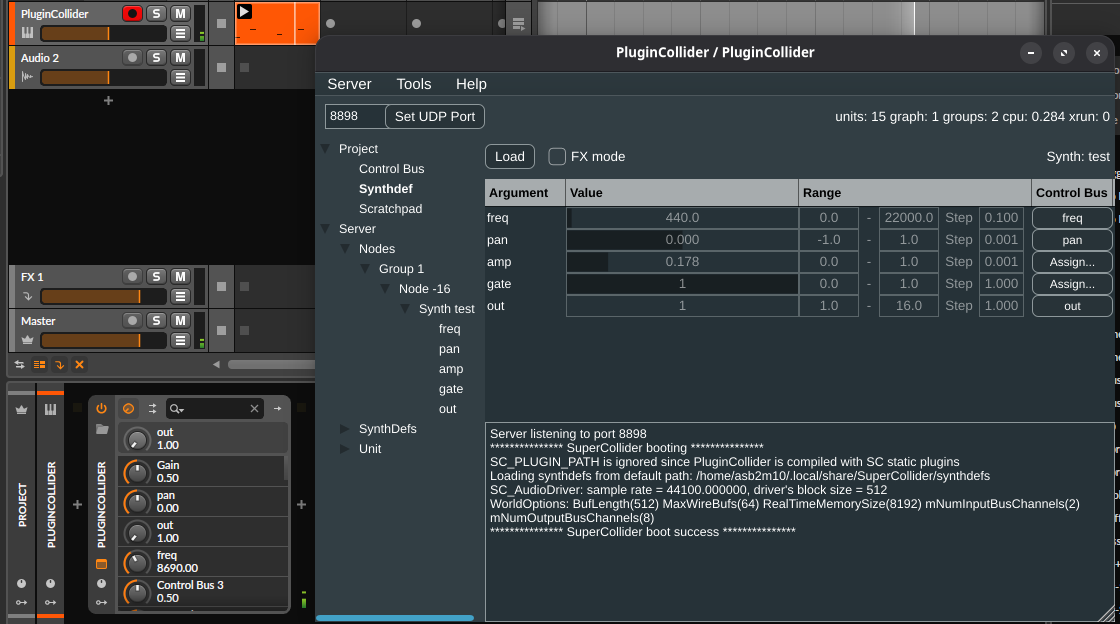
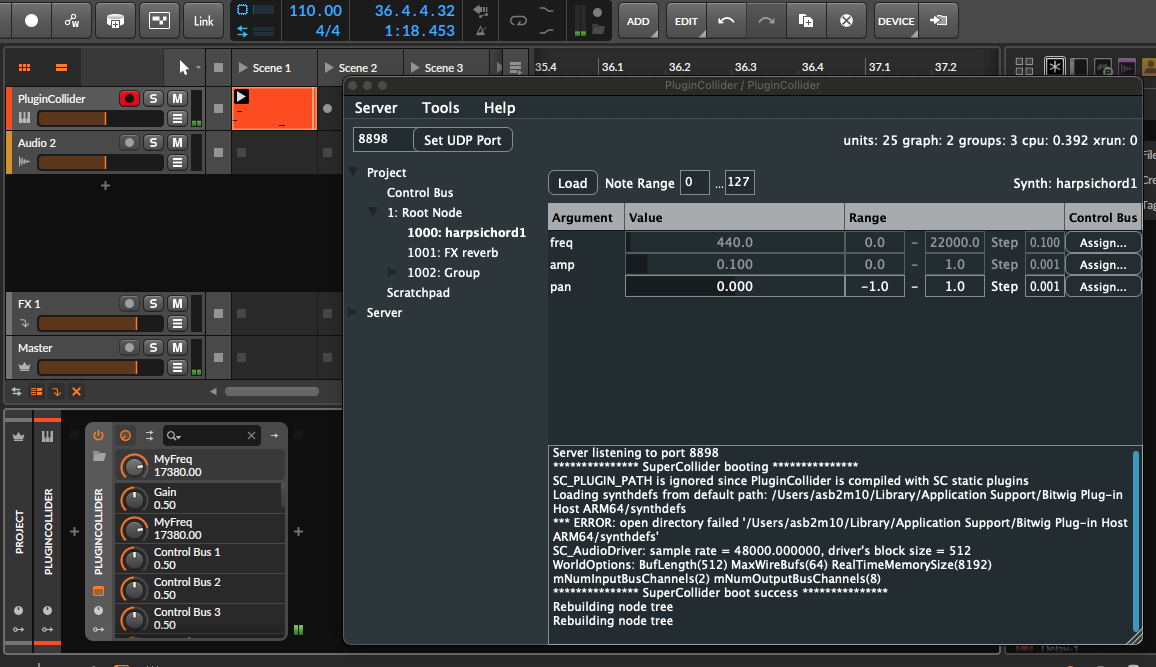
Bump version 0.4.0

diff --git a/README.md b/README.md
@@ -1,13 +1,13 @@
-Plugincollider
+PluginCollider
 ==============
 
-Plugincollider is a generic (cross-platform/plugin format) wrapper that allows using a [SuperCollider](https://supercollider.github.io/) server inside a VST3 plugin. The embedded server may be controlled over OSC as usual.
+PluginCollider is a generic (cross-platform/plugin format) wrapper that allows using a [SuperCollider](https://supercollider.github.io/) server inside a VST3 plugin. The embedded server may be controlled over OSC as usual.
 
 ![plugincollider screenshot](resources/ui/screenshot_bitwig.png)
 
 Now support Linux, macOS and Windows.
 
-*Plugincollider is based on AU version of https://github.com/supercollider/SuperColliderAU*
+*PluginCollider is based on AU version of https://github.com/supercollider/SuperColliderAU*
 
 # Changelog
 ## Version 0.4.0
@@ -33,34 +33,11 @@ SuperCollider is a highly modular ecosystem (sc-plugins, scsynth definitions) th
 
 Latest build are available from [https://github.com/asb2m10/plugincollider/actions](https://github.com/asb2m10/plugincollider/actions)
 
-# Usage - Supercollider server
-Plugincollider can be used as a standard SuperCollider server by using the SC IDE (or any other sclang client). You can test the plugin by using this SC code (where Plugincollider is running at 127.0.0.1:8898) :
-
-    o = ServerOptions.new;
-    s = Server.remote(\Plugincollider, NetAddr("127.0.0.1", 8898), o);
-    { [SinOsc.ar(439, 0, 0.2), SinOsc.ar(444, 0, 0.2)] }.play(s);
-
 # Usage - SynthDefs files
 
-Plugincollider can load previously compiled [SynthDefs](resources/scsyndef) (*.scsyndef) that will be saved within the DAW plugin state. No installation/usage of Supercollider afterwards is required if you want to exclusively use scsyndef files.
+PluginCollider can load previously compiled [SynthDefs](resources/scsyndef) (*.scsyndef) that will be saved within the DAW plugin state. No installation/usage of Supercollider afterwards is required if you want to exclusively use scsyndef files.
 
-If the SynthDef has arguments, they will be exposed to the plugin and the user can set the lower and upper values for each arguments. The user can then easily change them from the Plugincollider UI.
-
-## FX Mode
-
-If there is a SynthDef loaded, the plugin can be put in "FX Mode" that will run this SynthDef on a single node every time the plugin is running. This can be useful if you want to use the plugin as an effect or a drone/noodle.
-
-## Non-Fx Mode (Synth Mode)
-
-In this mode (and when a SynthDef is loaded), everytime Plugincollider receives a midi node, it will trigger this synth based on those parameters:
-
-| Midi Event         | ScSynDef args | Conversion                                                          |
-| ------------------ | ------------- | ------------------------------------------------------------------- |
-| note-on midi note  | freq          | Converts midi node (0-127) to frequency (hz)                        |
-| note-on velocity   | amp           | Converts midi velocity (0-127) to amp(0.0-1.0), linearly (for now). |
-| note-off           | gate          | Sends gate=0 on midi note off                                       |
-
-If for example your SynthDef doesn't have the gate arguments, the node will be freed once the note off is triggered.
+Follow [PluginCollider WIKI](https://github.com/asb2m10/plugincollider/wiki) for more information.
 
 # Known issues
 
@@ -74,38 +51,16 @@ If for example your SynthDef doesn't have the gate arguments, the node will be f
 - [x] assign scsyndef parameters to controlbus (and plug parameters values)
 - [x] multi scsyndef support
 - [x] implement /freq and /amp from DAW midi message
-- [ ] *macOS* enable Plugincollider to use SuperCollider scsynth plugin that the user previously installed (handle notarization)
+- [ ] *macOS* enable PluginCollider to use SuperCollider scsynth plugin that the user previously installed (handle notarization)
 - [x] *Windows* bundle sndfile.dll within the plugin installation
 - [ ] more accurate OSC DAW timing
 
-
-# Interacting with SuperCollider server (scsynth) from DAW
-
-Plugin parameters are now linked to the first 32 control buses. The SC code must normalize the values from 0.0 to 1.0; consider using a helper function like this:
-
-    var mkMappedBus = {|sym, defaultRange=([0, 1]), type=\linlin|
-        var v = NamedControl.kr(sym);
-        var range = NamedControl.kr(sym ++ 'Range', defaultRange);
-        v.perform(type, 0, 1, *range)
-    };
-
-    x = SynthDef("freqtest", {
-            var freq = mkMappedBus.(\freq, [20, 20000], \linexp);
-            var sig = SinOsc.ar(freq);
-            Out.ar(sig, sig!2 * 1);
-        }).play(s);
-
-    b = Bus.control(s, 1);
-    x.map(\freq, b)
-
-Please note that control buses are not yet read from server to DAW.
-
 # Build instructions
 
-Be sure to install SuperCollider and JUCE dependencies; dont forget [sndfile](https://github.com/libsndfile/libsndfile) on Linux. Then clone recursivly the repository and build Plugincollider like a normal cmake project :
+Be sure to install SuperCollider and JUCE dependencies; dont forget [sndfile](https://github.com/libsndfile/libsndfile) on Linux. Then clone recursivly the repository and build PluginCollider like a normal cmake project :
 
-    git clone --recursive https://github.com/asb2m10/Plugincollider
-    cd Plugincollider
+    git clone --recursive https://github.com/asb2m10/PluginCollider
+    cd PluginCollider
     mkdir build
     cd build
     cmake ..       # add `-G Xcode` if you want to use Xcode
